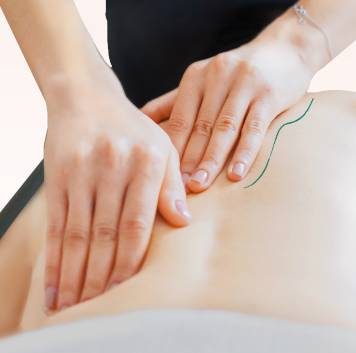
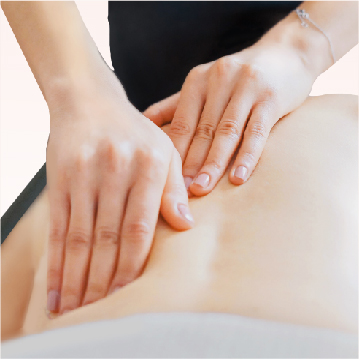
aboutus page and treatment list

diff --git a/aboutus.html b/aboutus.html
@@ -160,14 +160,13 @@
 				<div class="row justify-content-center">
 					<div class="col-sm-11">
 						<div class="row align-items-center">
-							<div class="col-sm-4 pr-sm-0">
-								<img src="./assets/images/about.jpg" alt="">
+							<div class="col-sm-4 p-0">
+								<img class="d-block d-sm-none" src="./assets/images/about.png" alt="">
 							</div>
 							<div class="col-md-8 pl-sm-0 about-content">
 								<div class="row align-items-end">
-									<div class="col-sm-3">
-										<img class="d-none m-auto d-sm-block" src="./assets/images/about_bg_bottom.svg" width="120" alt="">
-									</div>
+									<img class="about-img d-none d-sm-block" src="./assets/images/about.png" alt="">
+									<div class="col-sm-3"></div>
 									<div class="col-sm-9">
 										<div class="title mb-3">
 											<img src="assets/images/text-about.svg" alt="text-body">

diff --git a/assets/css/style.css b/assets/css/style.css
@@ -9546,7 +9546,6 @@ body.switch-open {
 	max-width: unset;
 	width: 140px;
 }
-
 @media only screen and (max-width: 480px) {
 	.demo_list {
 		right: -270px;
@@ -9578,5 +9577,11 @@ body.switch-open {
 @media only screen and (min-width: 768px) {
 	.banner_content_padding{
 		padding-left: 110px;
+	}
+	.about-img{
+		position: absolute;
+		width: 500px;
+		left: -350px;
+		top: 20%;
 	}
 }
